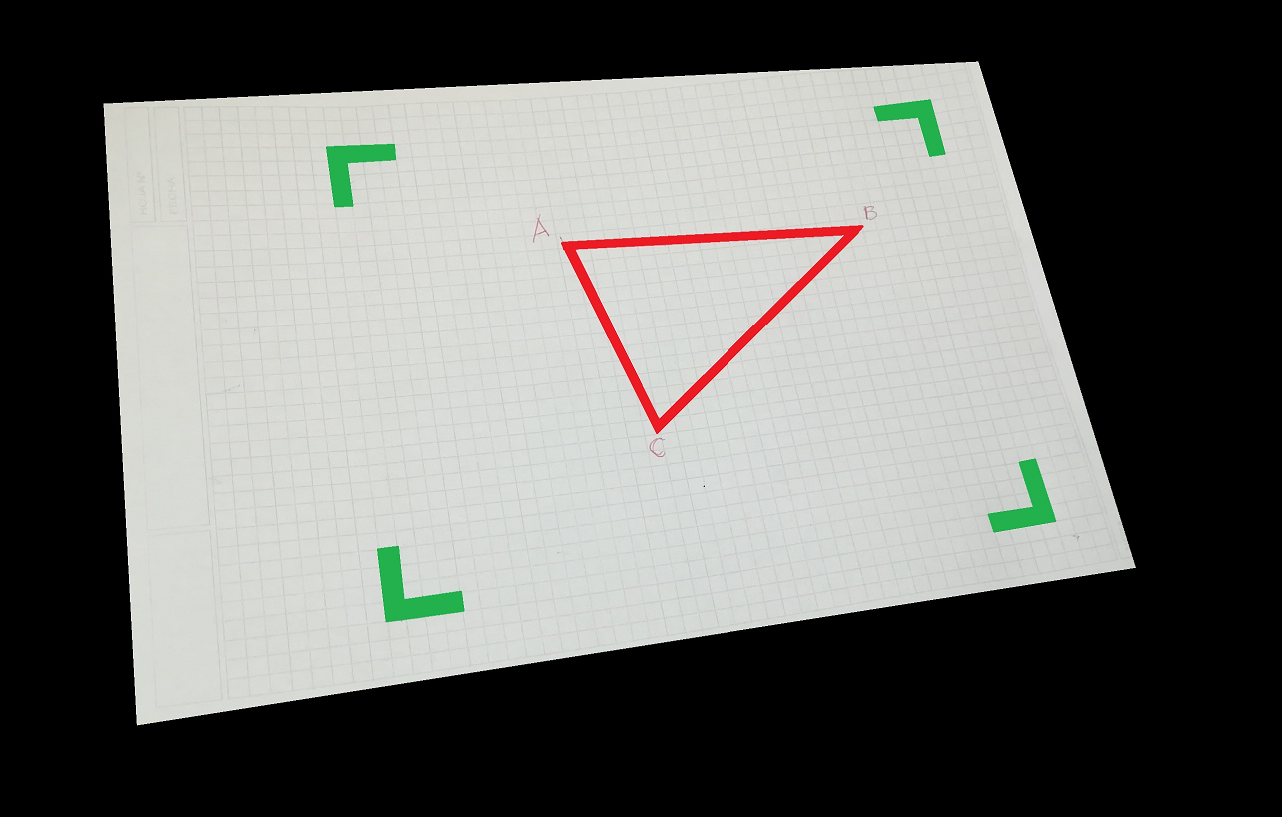
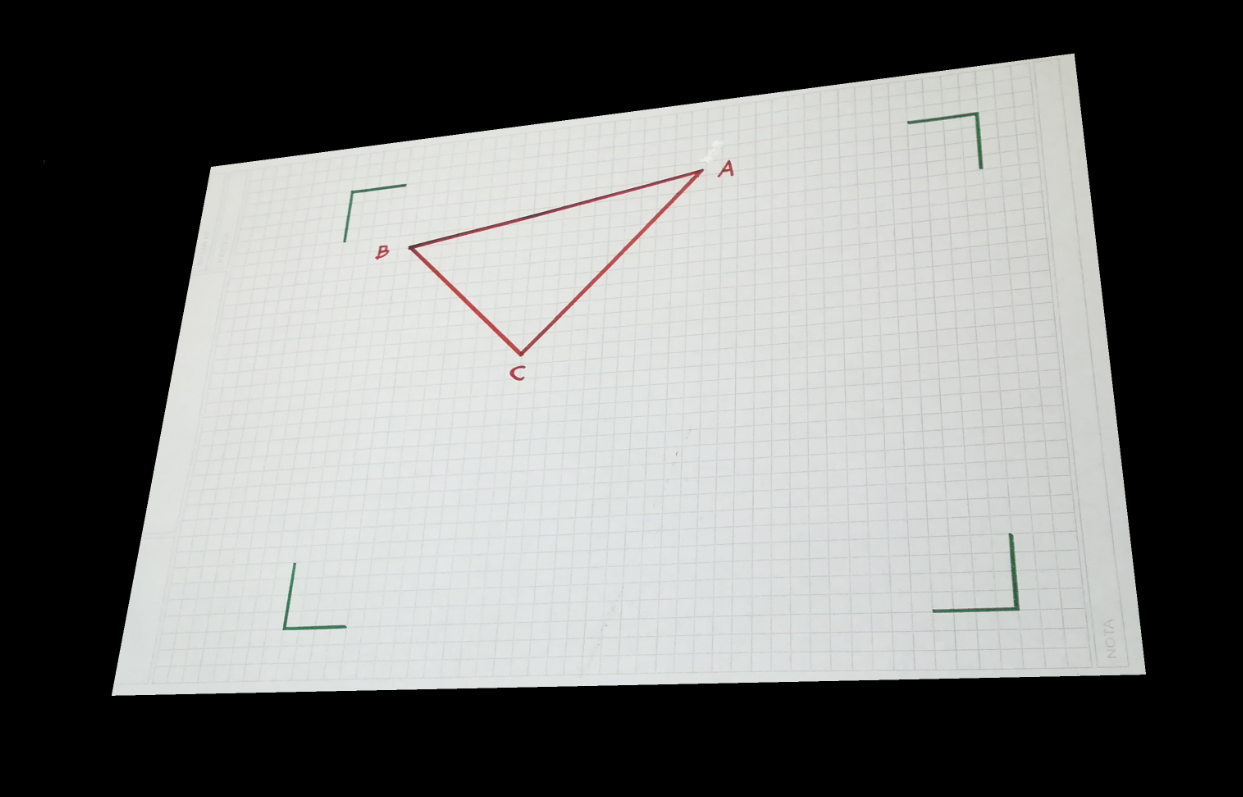
colgue en subir lo ultimo

diff --git a/parte3 - vision/testBordes2.m b/parte3 - vision/testBordes2.m
@@ -2,7 +2,7 @@
 clear all
 close all
 clc
-% Asumsiones:
+% Asumsiones generales:
 % - Bordes negros
 % - No esta rotada mas de 45°
 % - No hay vertices dentro del cuadrado que define cada esquina de 20*20
@@ -10,8 +10,8 @@ clc
 % - No usar imagenes de 12M -> Pierde precision
 
 % Cargo imagen original
-im_orig=iread('cuadro5.jpg','double'); 
-im_aux=iread('cuadro5.jpg','double','grey');
+im_orig=iread('cuadro4.jpg','double'); 
+im_aux=iread('cuadro4.jpg','double','grey');
 imth = im_aux>0.5;
 figure();
 idisp(im_aux)
@@ -44,10 +44,10 @@ im_hoja = im_hoja>0.5;
 im_hoja = ~im_hoja;
 
 size_hoja=size(im_hoja);
-im_hoja(1:5,:) = 0;
-im_hoja(:,(size_hoja(2)-5):size_hoja(2)) = 0;
-im_hoja((size_hoja(1)-5):size_hoja(1),:) = 0;
-im_hoja(:,1:5) = 0;
+im_hoja(1:2,:) = 0;
+im_hoja(:,(size_hoja(2)-2):size_hoja(2)) = 0;
+im_hoja((size_hoja(1)-2):size_hoja(1),:) = 0;
+im_hoja(:,1:2) = 0;
 
 figure();
 idisp(im_hoja)
@@ -122,5 +122,6 @@ hoja_final = focus_hoja(warpedth_h,warpedth_h,0);
 figure();
 idisp(hoja_final)
 
-% Otra para Ari: con Hough ubicar los puntos del triangulo y pasar a cm
-
+%% Extraigo puntos del triangulo
+[fil_tri,col_tri] = get_triangle(hoja_final);
+[fil_tri,col_tri]

diff --git a/parte3 - vision/get_triangle.m b/parte3 - vision/get_triangle.m
@@ -1,0 +1,33 @@
+function [fil_tri,col_tri] = get_triangle(hoja_final)
+% GET_TRIANGLE recibe la hoja plana y devuelve los puntos del triangulo
+
+size_f = size(hoja_final);
+ref = ceil(2*min(size_f)/100);
+hoja_finalAux = hoja_final;
+hoja_finalAux(1:ref,:) = 0;
+hoja_finalAux(:,1:ref) = 0;
+hoja_finalAux(size_f(1)-ref:size_f(1),:) = 0;
+hoja_finalAux(:,size_f(2)-ref:size_f(2)) = 0;
+
+figure();
+idisp(hoja_finalAux)
+
+base_th = 1;
+line_qty = 0;
+while(line_qty < 3)
+    base_th = base_th-0.05;
+    imlin_tri = Hough(hoja_finalAux);
+    imlin_tri.houghThresh = base_th;
+    imlin_tri.suppress = 15;
+    lineas_tri = imlin_tri.lines;
+    line_qty = size(lineas_tri);
+    line_qty = line_qty(2);
+end
+imlin_tri.plot;
+
+imlinea1_tri = generarlinea(lineas_tri(1).rho,lineas_tri(1).theta,size_f(2),size_f(1));
+imlinea2_tri = generarlinea(lineas_tri(2).rho,lineas_tri(2).theta,size_f(2),size_f(1));
+imlinea3_tri = generarlinea(lineas_tri(3).rho,lineas_tri(3).theta,size_f(2),size_f(1));
+
+bordes_tri = (imlinea1_tri+imlinea2_tri+imlinea3_tri)==2;
+[fil_tri,col_tri] = find(bordes_tri);
